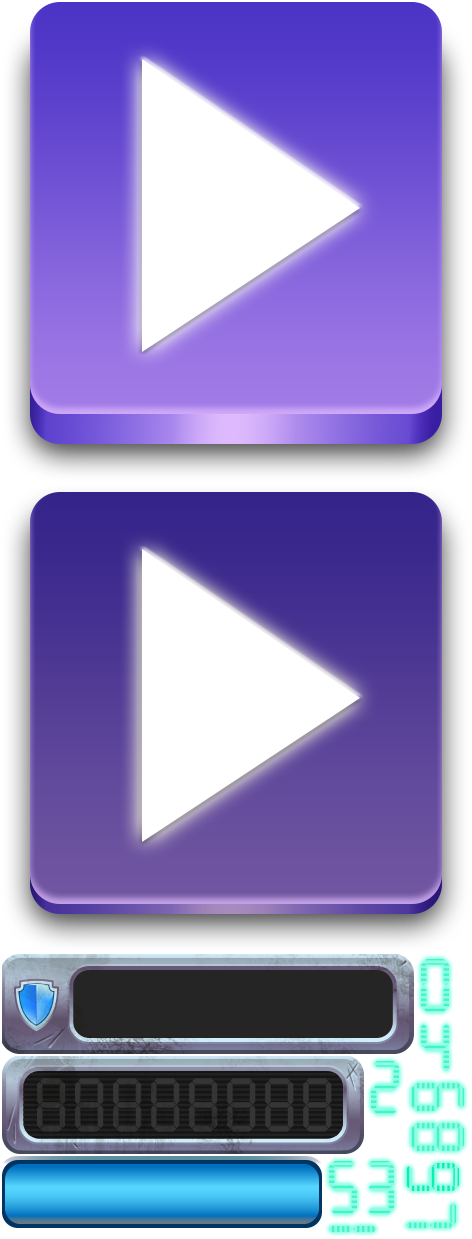
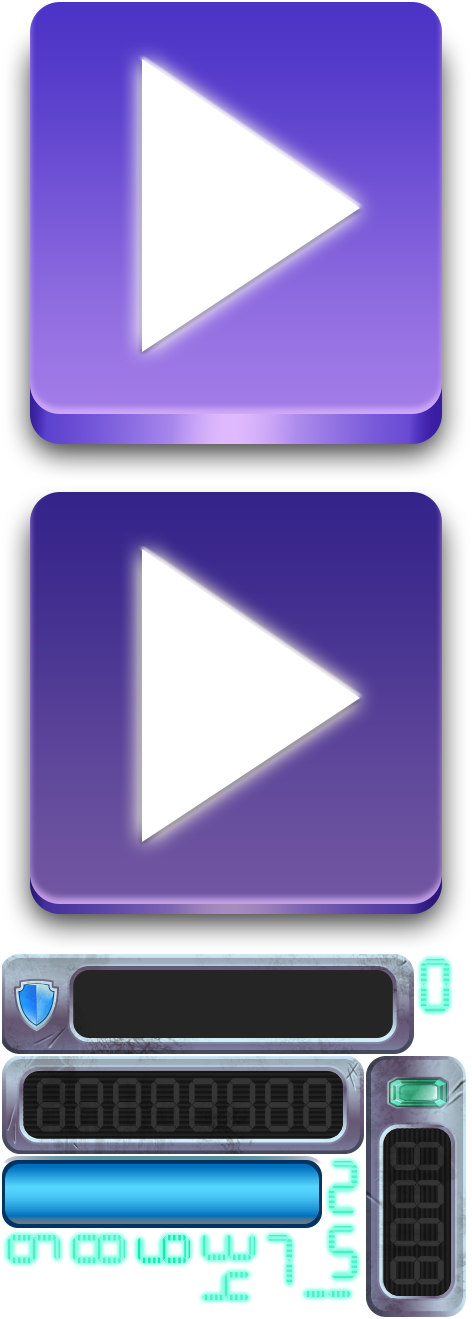
Adds new enemies and coin display to demo game

diff --git a/examples/game/lib/game_objects.dart b/examples/game/lib/game_objects.dart
@@ -120,8 +120,9 @@ class Laser extends GameObject {
 
   Laser(GameObjectFactory f) : super(f) {
     // Add sprite
-    _sprt = new Sprite(f.sheet["laser.png"]);
-    _sprt.scale = 0.3;
+    _sprt = new Sprite(f.sheet["explosion_particle.png"]);
+    _sprt.scale = 0.5;
+    _sprt.colorOverlay = new Color(0xff95f4fb);
     _sprt.transferMode = sky.TransferMode.plus;
     addChild(_sprt);
     radius = 10.0;
@@ -138,6 +139,11 @@ class Laser extends GameObject {
   }
 }
 
+Color colorForDamage(double damage, double maxDamage) {
+  int alpha = ((200.0 * damage) ~/ maxDamage).clamp(0, 200);
+  return new Color.fromARGB(alpha, 255, 3, 86);
+}
+
 abstract class Obstacle extends GameObject {
 
   Obstacle(GameObjectFactory f) : super(f);
@@ -146,7 +152,7 @@ abstract class Obstacle extends GameObject {
 
   Explosion createExplosion() {
     SoundEffectPlayer.sharedInstance().play(f.sounds["explosion"]);
-    Explosion explo = new Explosion(f.sheet);
+    Explosion explo = new ExplosionBig(f.sheet);
     explo.scale = explosionScale;
     return explo;
   }
@@ -169,8 +175,7 @@ abstract class Asteroid extends Obstacle {
 
   set damage(double d) {
     super.damage = d;
-    int alpha = ((200.0 * d) ~/ maxDamage).clamp(0, 200);
-    _sprt.colorOverlay = new Color.fromARGB(alpha, 255, 3, 86);
+    _sprt.colorOverlay = colorForDamage(d, maxDamage);
   }
 
   PowerUp createPowerUp() {
@@ -198,10 +203,10 @@ class AsteroidSmall extends Asteroid {
   }
 }
 
-class MovingEnemy extends Obstacle {
-  MovingEnemy(GameObjectFactory f) : super(f) {
-    _sprt = new Sprite(f.sheet["ship.png"]);
-    _sprt.scale = 0.2;
+class EnemyScout extends Obstacle {
+  EnemyScout(GameObjectFactory f) : super(f) {
+    _sprt = new Sprite(f.sheet["enemy_scout_0.png"]);
+    _sprt.scale = 0.32;
     radius = 12.0;
     maxDamage = 1.0;
     addChild(_sprt);
@@ -251,7 +256,85 @@ class MovingEnemy extends Obstacle {
     actions.run(new ActionRepeatForever(spline));
   }
 
+  PowerUp createPowerUp() {
+    return new Coin(f);
+  }
+
   Sprite _sprt;
+}
+
+class EnemyDestroyer extends Obstacle {
+  EnemyDestroyer(GameObjectFactory f) : super(f) {
+    _sprt = new Sprite(f.sheet["enemy_destroyer_1.png"]);
+    _sprt.scale = 0.32;
+    radius = 24.0;
+    maxDamage = 4.0;
+    addChild(_sprt);
+
+    constraints = [new ConstraintRotationToNode(f.level.ship, dampening: 0.05)];
+  }
+
+  int _countDown = randomInt(120) + 240;
+
+  void setupActions() {
+    ActionCircularMove circle = new ActionCircularMove(
+      (a) => position = a,
+      position, 40.0,
+      360.0 * randomDouble(),
+      randomBool(),
+      3.0);
+    actions.run(new ActionRepeatForever(circle));
+  }
+
+  PowerUp createPowerUp() {
+    return new Coin(f);
+  }
+
+  void update(double dt) {
+    _countDown -= 1;
+    if (_countDown <= 0) {
+      print("SHOOT!!");
+
+      // Shoot at player
+      EnemyLaser laser = new EnemyLaser(f, rotation, 5.0, new Color(0xffffe38e));
+      laser.position = position;
+      f.level.addChild(laser);
+
+      _countDown = 60 + randomInt(120);
+    }
+  }
+
+  set damage(double d) {
+    super.damage = d;
+    _sprt.colorOverlay = colorForDamage(d, maxDamage);
+  }
+
+  Sprite _sprt;
+}
+
+class EnemyLaser extends Obstacle {
+  EnemyLaser(GameObjectFactory f, double rotation, double speed, Color color) : super(f) {
+    _sprt = new Sprite(f.sheet["explosion_particle.png"]);
+    _sprt.scale = 0.5;
+    _sprt.rotation = rotation + 90;
+    _sprt.colorOverlay = color;
+    addChild(_sprt);
+
+    canDamageShip = true;
+    canBeDamaged = false;
+
+    double rad = radians(rotation);
+    _movement = new Offset(math.cos(rad) * speed, math.sin(rad) * speed);
+
+    print("LASER!!");
+  }
+
+  Sprite _sprt;
+  Offset _movement;
+
+  void move() {
+    position += _movement;
+  }
 }
 
 class PowerUp extends GameObject {
@@ -264,10 +347,8 @@ class PowerUp extends GameObject {
 
 class Coin extends PowerUp {
   Coin(GameObjectFactory f) : super(f) {
-    _sprt = new Sprite(f.sheet["shield.png"]);
-    _sprt.transferMode = sky.TransferMode.plus;
-    _sprt.size = new Size(15.0, 15.0);
-    _sprt.colorOverlay = new Color(0xffffff00);
+    _sprt = new Sprite(f.sheet["coin.png"]);
+    _sprt.scale = 0.7;
     addChild(_sprt);
 
     radius = 7.5;

diff --git a/examples/game/lib/player_state.dart b/examples/game/lib/player_state.dart
@@ -3,38 +3,41 @@ part of game;
 class PlayerState extends Node {
   PlayerState(this._sheetUI, this._sheetGame) {
     // Score display
-    Sprite sprtBgScore = new Sprite(_sheetUI["scoreboard.png"]);
-    sprtBgScore.pivot = new Point(1.0, 0.0);
-    sprtBgScore.scale = 0.35;
-    sprtBgScore.position = new Point(310.0, 10.0);
-    addChild(sprtBgScore);
+    _sprtBgScore = new Sprite(_sheetUI["scoreboard.png"]);
+    _sprtBgScore.pivot = new Point(1.0, 0.0);
+    _sprtBgScore.scale = 0.35;
+    _sprtBgScore.position = new Point(240.0, 10.0);
+    addChild(_sprtBgScore);
 
     _scoreDisplay = new ScoreDisplay(_sheetUI);
     _scoreDisplay.position = new Point(-13.0, 49.0);
-    sprtBgScore.addChild(_scoreDisplay);
+    _sprtBgScore.addChild(_scoreDisplay);
 
     // Coin display
-    Sprite sprtBgCoins = new Sprite(_sheetUI["scoreboard.png"]);
-    sprtBgCoins.pivot = new Point(1.0, 0.0);
-    sprtBgCoins.scale = 0.35;
-    sprtBgCoins.position = new Point(170.0, 10.0);
-    addChild(sprtBgCoins);
+    _sprtBgCoins = new Sprite(_sheetUI["coinboard.png"]);
+    _sprtBgCoins.pivot = new Point(1.0, 0.0);
+    _sprtBgCoins.scale = 0.35;
+    _sprtBgCoins.position = new Point(105.0, 10.0);
+    addChild(_sprtBgCoins);
 
     _coinDisplay = new ScoreDisplay(_sheetUI);
     _coinDisplay.position = new Point(-13.0, 49.0);
-    sprtBgCoins.addChild(_coinDisplay);
+    _sprtBgCoins.addChild(_coinDisplay);
   }
 
   final SpriteSheet _sheetUI;
   final SpriteSheet _sheetGame;
 
+  Sprite _sprtBgScore;
   ScoreDisplay _scoreDisplay;
+  Sprite _sprtBgCoins;
   ScoreDisplay _coinDisplay;
 
   int get score => _scoreDisplay.score;
 
   set score(int score) {
     _scoreDisplay.score = score;
+    flashBgSprite(_sprtBgScore);
   }
 
   int get coins => _coinDisplay.score;
@@ -42,25 +45,40 @@ class PlayerState extends Node {
   void addCoin(Coin c) {
     // Animate coin to the top of the screen
     Point startPos = convertPointFromNode(Point.origin, c);
-    Point finalPos = new Point(10.0, 10.0);
+    Point finalPos = new Point(30.0, 30.0);
     Point middlePos = new Point((startPos.x + finalPos.x) / 2.0 + 50.0,
       (startPos.y + finalPos.y) / 2.0);
 
     List<Point> path = [startPos, middlePos, finalPos];
 
-    Sprite sprt = new Sprite(_sheetGame["shield.png"]);
-    sprt.size = new Size(15.0, 15.0);
-    sprt.transferMode = sky.TransferMode.plus;
-    sprt.colorOverlay = new Color(0xffffff00);
+    Sprite sprt = new Sprite(_sheetGame["coin.png"]);
+    sprt.scale = 0.7;
+
     ActionSpline spline = new ActionSpline((a) => sprt.position = a, path, 0.5);
     spline.tension = 0.25;
+    ActionTween rotate = new ActionTween((a) => sprt.rotation = a, 0.0, 360.0, 0.5);
+    ActionTween scale = new ActionTween((a) => sprt.scale = a, 0.7, 1.2, 0.5);
+    ActionGroup group = new ActionGroup([spline, rotate, scale]);
     sprt.actions.run(new ActionSequence([
-      spline,
+      group,
       new ActionRemoveNode(sprt),
-      new ActionCallFunction(() { _coinDisplay.score += 1; })
+      new ActionCallFunction(() {
+        _coinDisplay.score += 1;
+        flashBgSprite(_sprtBgCoins);
+      })
     ]));
 
     addChild(sprt);
+  }
+
+  void flashBgSprite(Sprite sprt) {
+    sprt.actions.stopAll();
+    ActionTween flash = new ActionTween(
+      (a) => sprt.colorOverlay = a,
+      new Color(0x66ccfff0),
+      new Color(0x00ccfff0),
+      0.3);
+    sprt.actions.run(flash);
   }
 }
 

diff --git a/examples/game/lib/game_object_factory.dart b/examples/game/lib/game_object_factory.dart
@@ -3,7 +3,8 @@ part of game;
 enum GameObjectType {
   asteroidBig,
   asteroidSmall,
-  movingEnemy,
+  enemyScout,
+  enemyDestroyer,
   coin,
 }
 
@@ -24,11 +25,17 @@ class GameObjectFactory {
     }
   }
 
-  void addSwarm(int numEnemies, double yPos) {
+  void addEnemyScoutSwarm(int numEnemies, double yPos) {
     for (int i = 0; i < numEnemies; i++) {
       double spacing = math.max(_chunkSpacing / (numEnemies + 1.0), 80.0);
       double y = yPos + _chunkSpacing / 2.0 - (numEnemies - 1) * spacing / 2.0 + i * spacing;
-      addGameObject(GameObjectType.movingEnemy, new Point(0.0, y));
+      addGameObject(GameObjectType.enemyScout, new Point(0.0, y));
+    }
+  }
+
+  void addEnemyDestroyerSwarm(int numEnemies, double yPos) {
+    for (int i = 0; i < numEnemies; i++) {
+      addGameObject(GameObjectType.enemyDestroyer, new Point(randomSignedDouble() * 120.0 , yPos + _chunkSpacing * randomDouble()));
     }
   }
 
@@ -38,8 +45,10 @@ class GameObjectFactory {
       obj = new AsteroidBig(this);
     else if (type == GameObjectType.asteroidSmall)
       obj = new AsteroidSmall(this);
-    else if (type == GameObjectType.movingEnemy)
-      obj = new MovingEnemy(this);
+    else if (type == GameObjectType.enemyScout)
+      obj = new EnemyScout(this);
+    else if (type == GameObjectType.enemyDestroyer)
+      obj = new EnemyDestroyer(this);
     else if (type == GameObjectType.coin)
       obj = new Coin(this);
 

diff --git a/examples/game/lib/game_demo_node.dart b/examples/game/lib/game_demo_node.dart
@@ -198,11 +198,11 @@ class GameDemoNode extends NodeWithSize {
     if (part == 0) {
       _objectFactory.addAsteroids(10 + level * 4, yPos, 0.0 + (level * 0.2).clamp(0.0, 0.7));
     } else if  (part == 1) {
-      _objectFactory.addSwarm(4 + level * 2, yPos);
+      _objectFactory.addEnemyScoutSwarm(4 + level * 2, yPos);
     } else if (part == 2) {
       _objectFactory.addAsteroids(10 + level * 4, yPos, 0.0 + (level * 0.2).clamp(0.0, 0.7));
     } else if (part == 3) {
-      _objectFactory.addAsteroids(10 + level * 4, yPos, 0.0 + (level * 0.2).clamp(0.0, 0.7));
+      _objectFactory.addEnemyDestroyerSwarm(2 + level, yPos);
     } else if (part == 4) {
       _objectFactory.addAsteroids(10 + level * 4, yPos, 0.0 + (level * 0.2).clamp(0.0, 0.7));
     }
@@ -227,7 +227,7 @@ class GameDemoNode extends NodeWithSize {
     _effectPlayer.play(_sounds["explosion"]);
 
     // Add explosion
-    Explosion explo = new Explosion(_spritesGame);
+    ExplosionBig explo = new ExplosionBig(_spritesGame);
     explo.scale = 1.5;
     explo.position = _level.ship.position;
     _level.addChild(explo);

diff --git a/examples/game/lib/custom_actions.dart b/examples/game/lib/custom_actions.dart
@@ -1,0 +1,19 @@
+part of game;
+
+class ActionCircularMove extends ActionInterval {
+  ActionCircularMove(this.setter, this.center, this.radius, this.startAngle, this.clockWise, double duration) : super (duration);
+
+  final Function setter;
+  final Point center;
+  final double radius;
+  final double startAngle;
+  final bool clockWise;
+
+  void update(double t) {
+    if (!clockWise) t = -t;
+    double rad = radians(startAngle + t * 360.0);
+    Offset offset = new Offset(math.cos(rad) * radius, math.sin(rad) * radius);
+    Point pos = center + offset;
+    setter(pos);
+  }
+}

diff --git a/examples/game/lib/explosions.dart b/examples/game/lib/explosions.dart
@@ -1,7 +1,13 @@
 part of game;
 
 class Explosion extends Node {
-  Explosion(SpriteSheet sheet) {
+  Explosion() {
+    zPosition = 10.0;
+  }
+}
+
+class ExplosionBig extends Explosion {
+  ExplosionBig(SpriteSheet sheet) {
     // Add particles
     ParticleSystem particlesDebris = new ParticleSystem(
       sheet["explosion_particle.png"],
@@ -68,4 +74,8 @@ class Explosion extends Node {
       actions.run(fadeInOut);
     }
   }
+}
+
+class ExplosionMini extends Explosion {
+
 }

diff --git a/examples/game/lib/game_demo.dart b/examples/game/lib/game_demo.dart
@@ -7,7 +7,9 @@ import 'dart:sky' as sky;
 import 'package:sky/rendering/object.dart';
 import 'package:sky/widgets/framework.dart';
 import 'package:skysprites/skysprites.dart';
+import 'package:vector_math/vector_math.dart';
 
+part 'custom_actions.dart';
 part 'explosions.dart';
 part 'flash.dart';
 part 'game_demo_node.dart';
